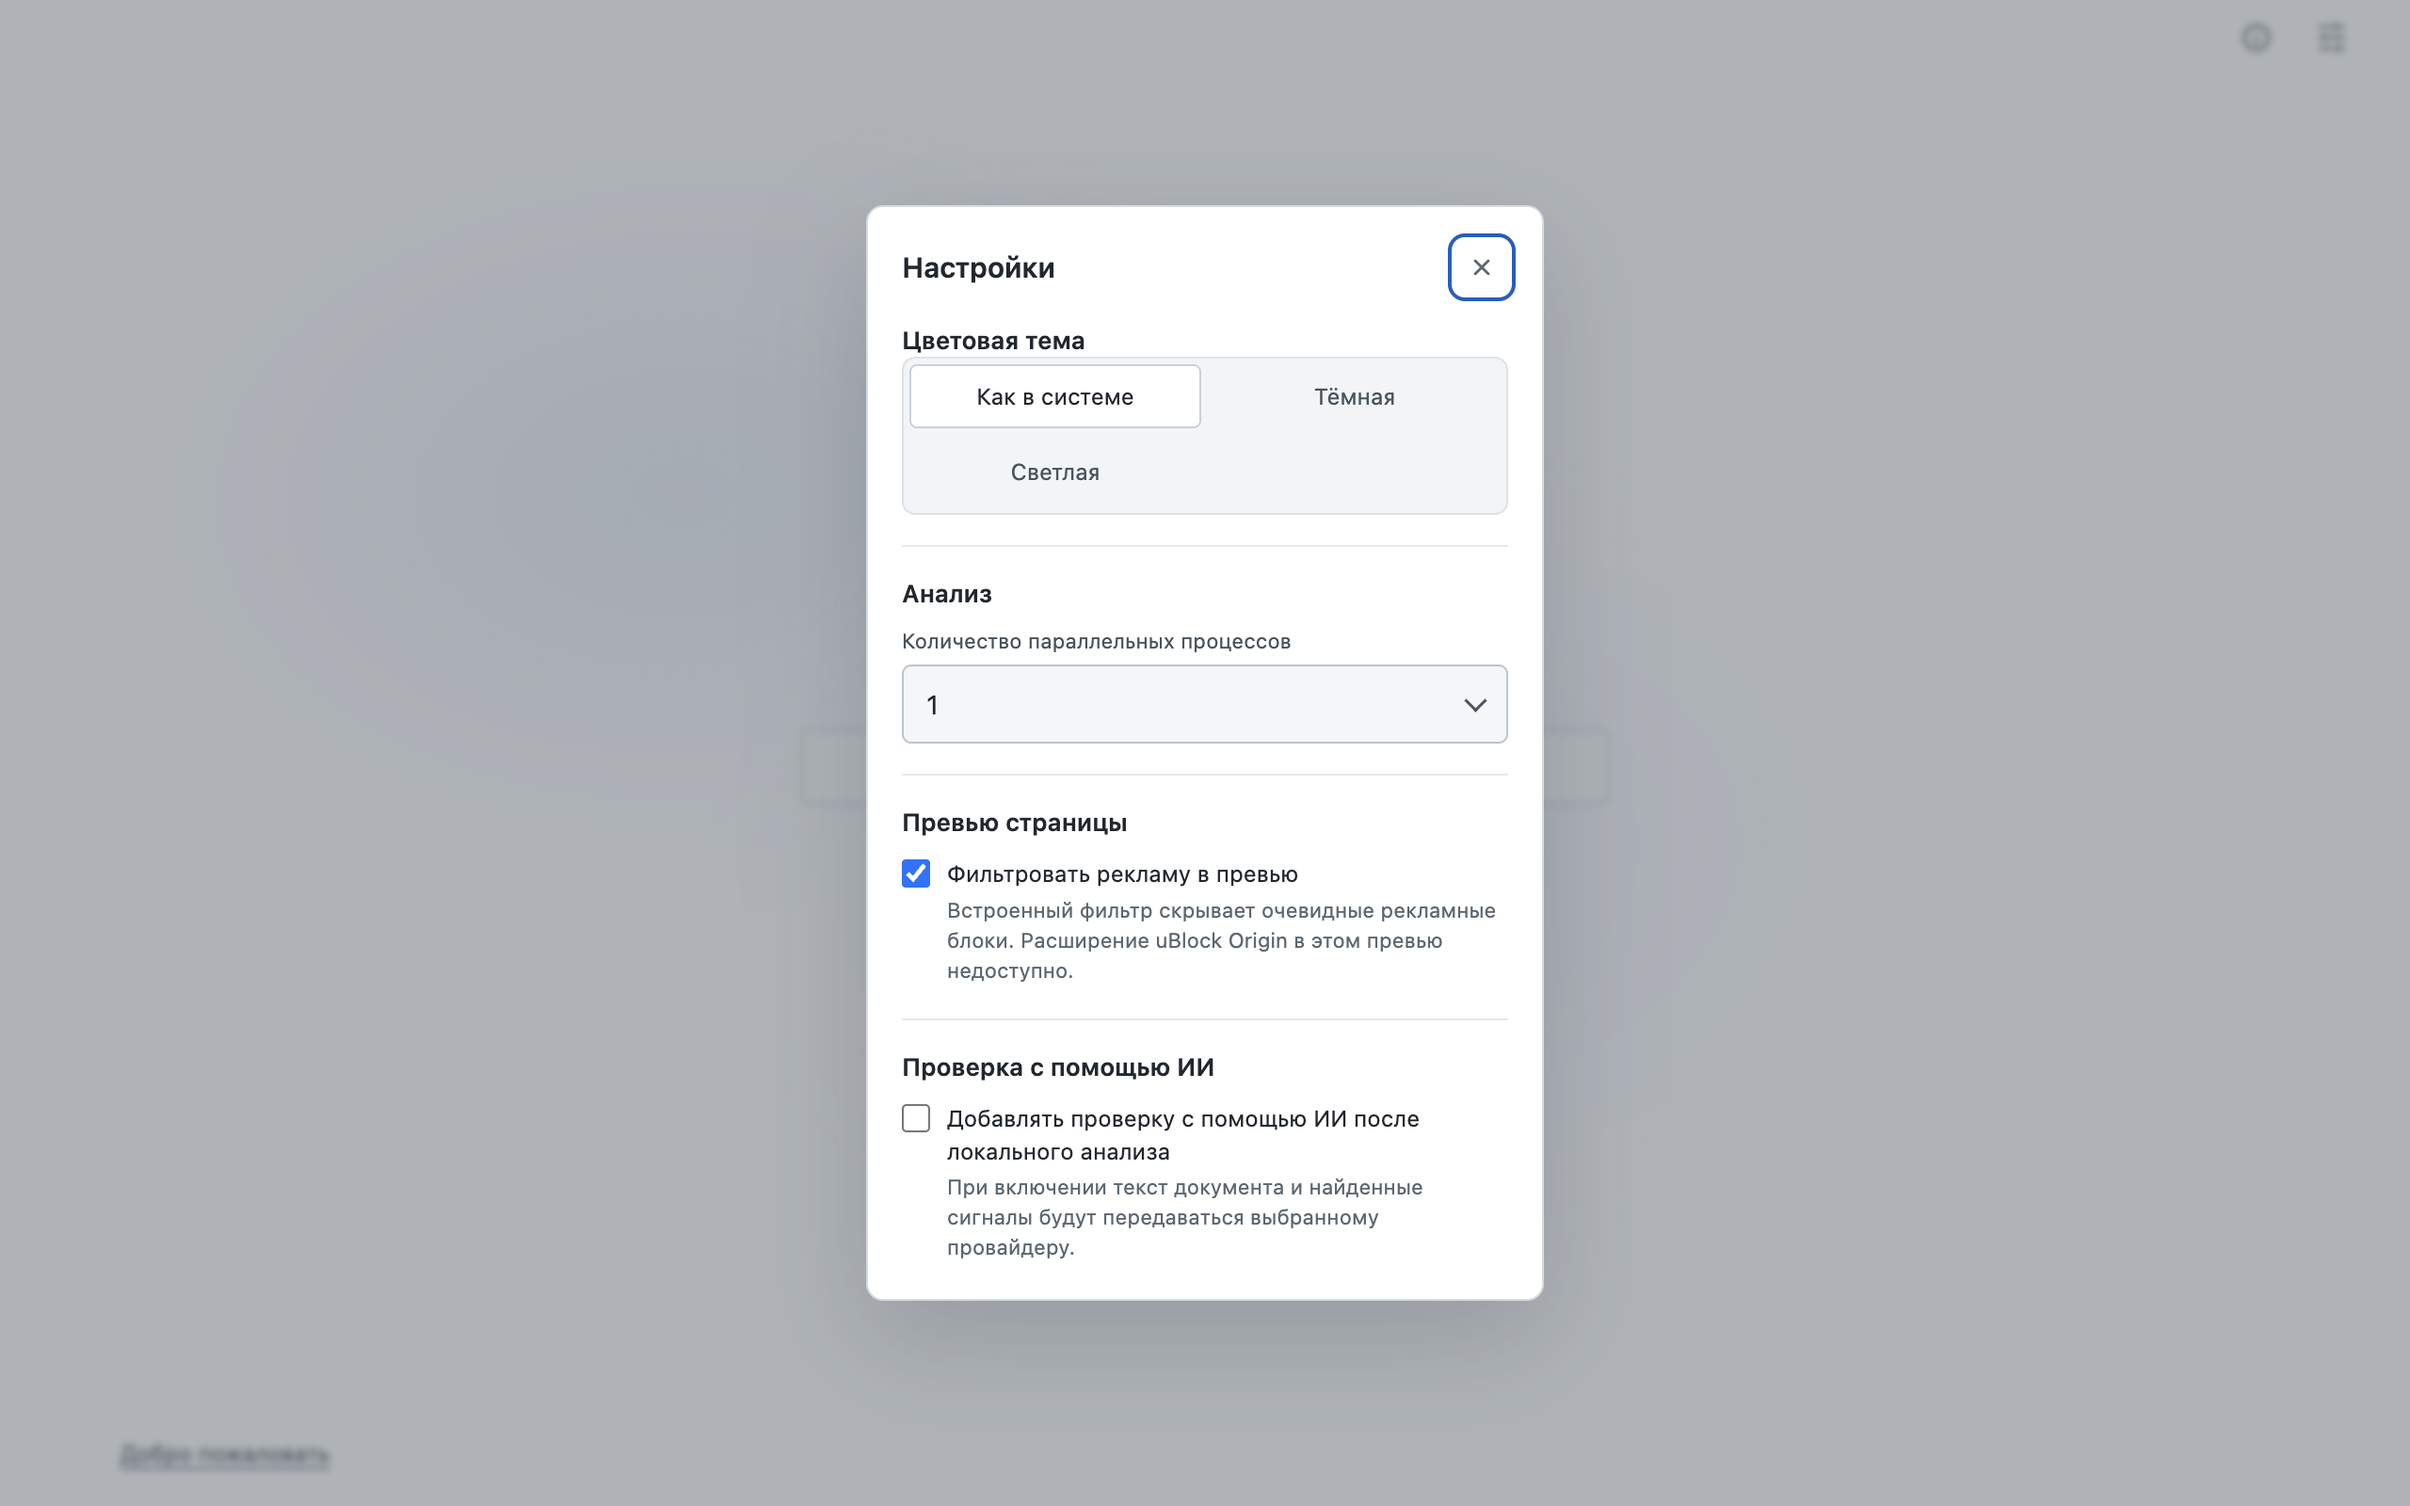
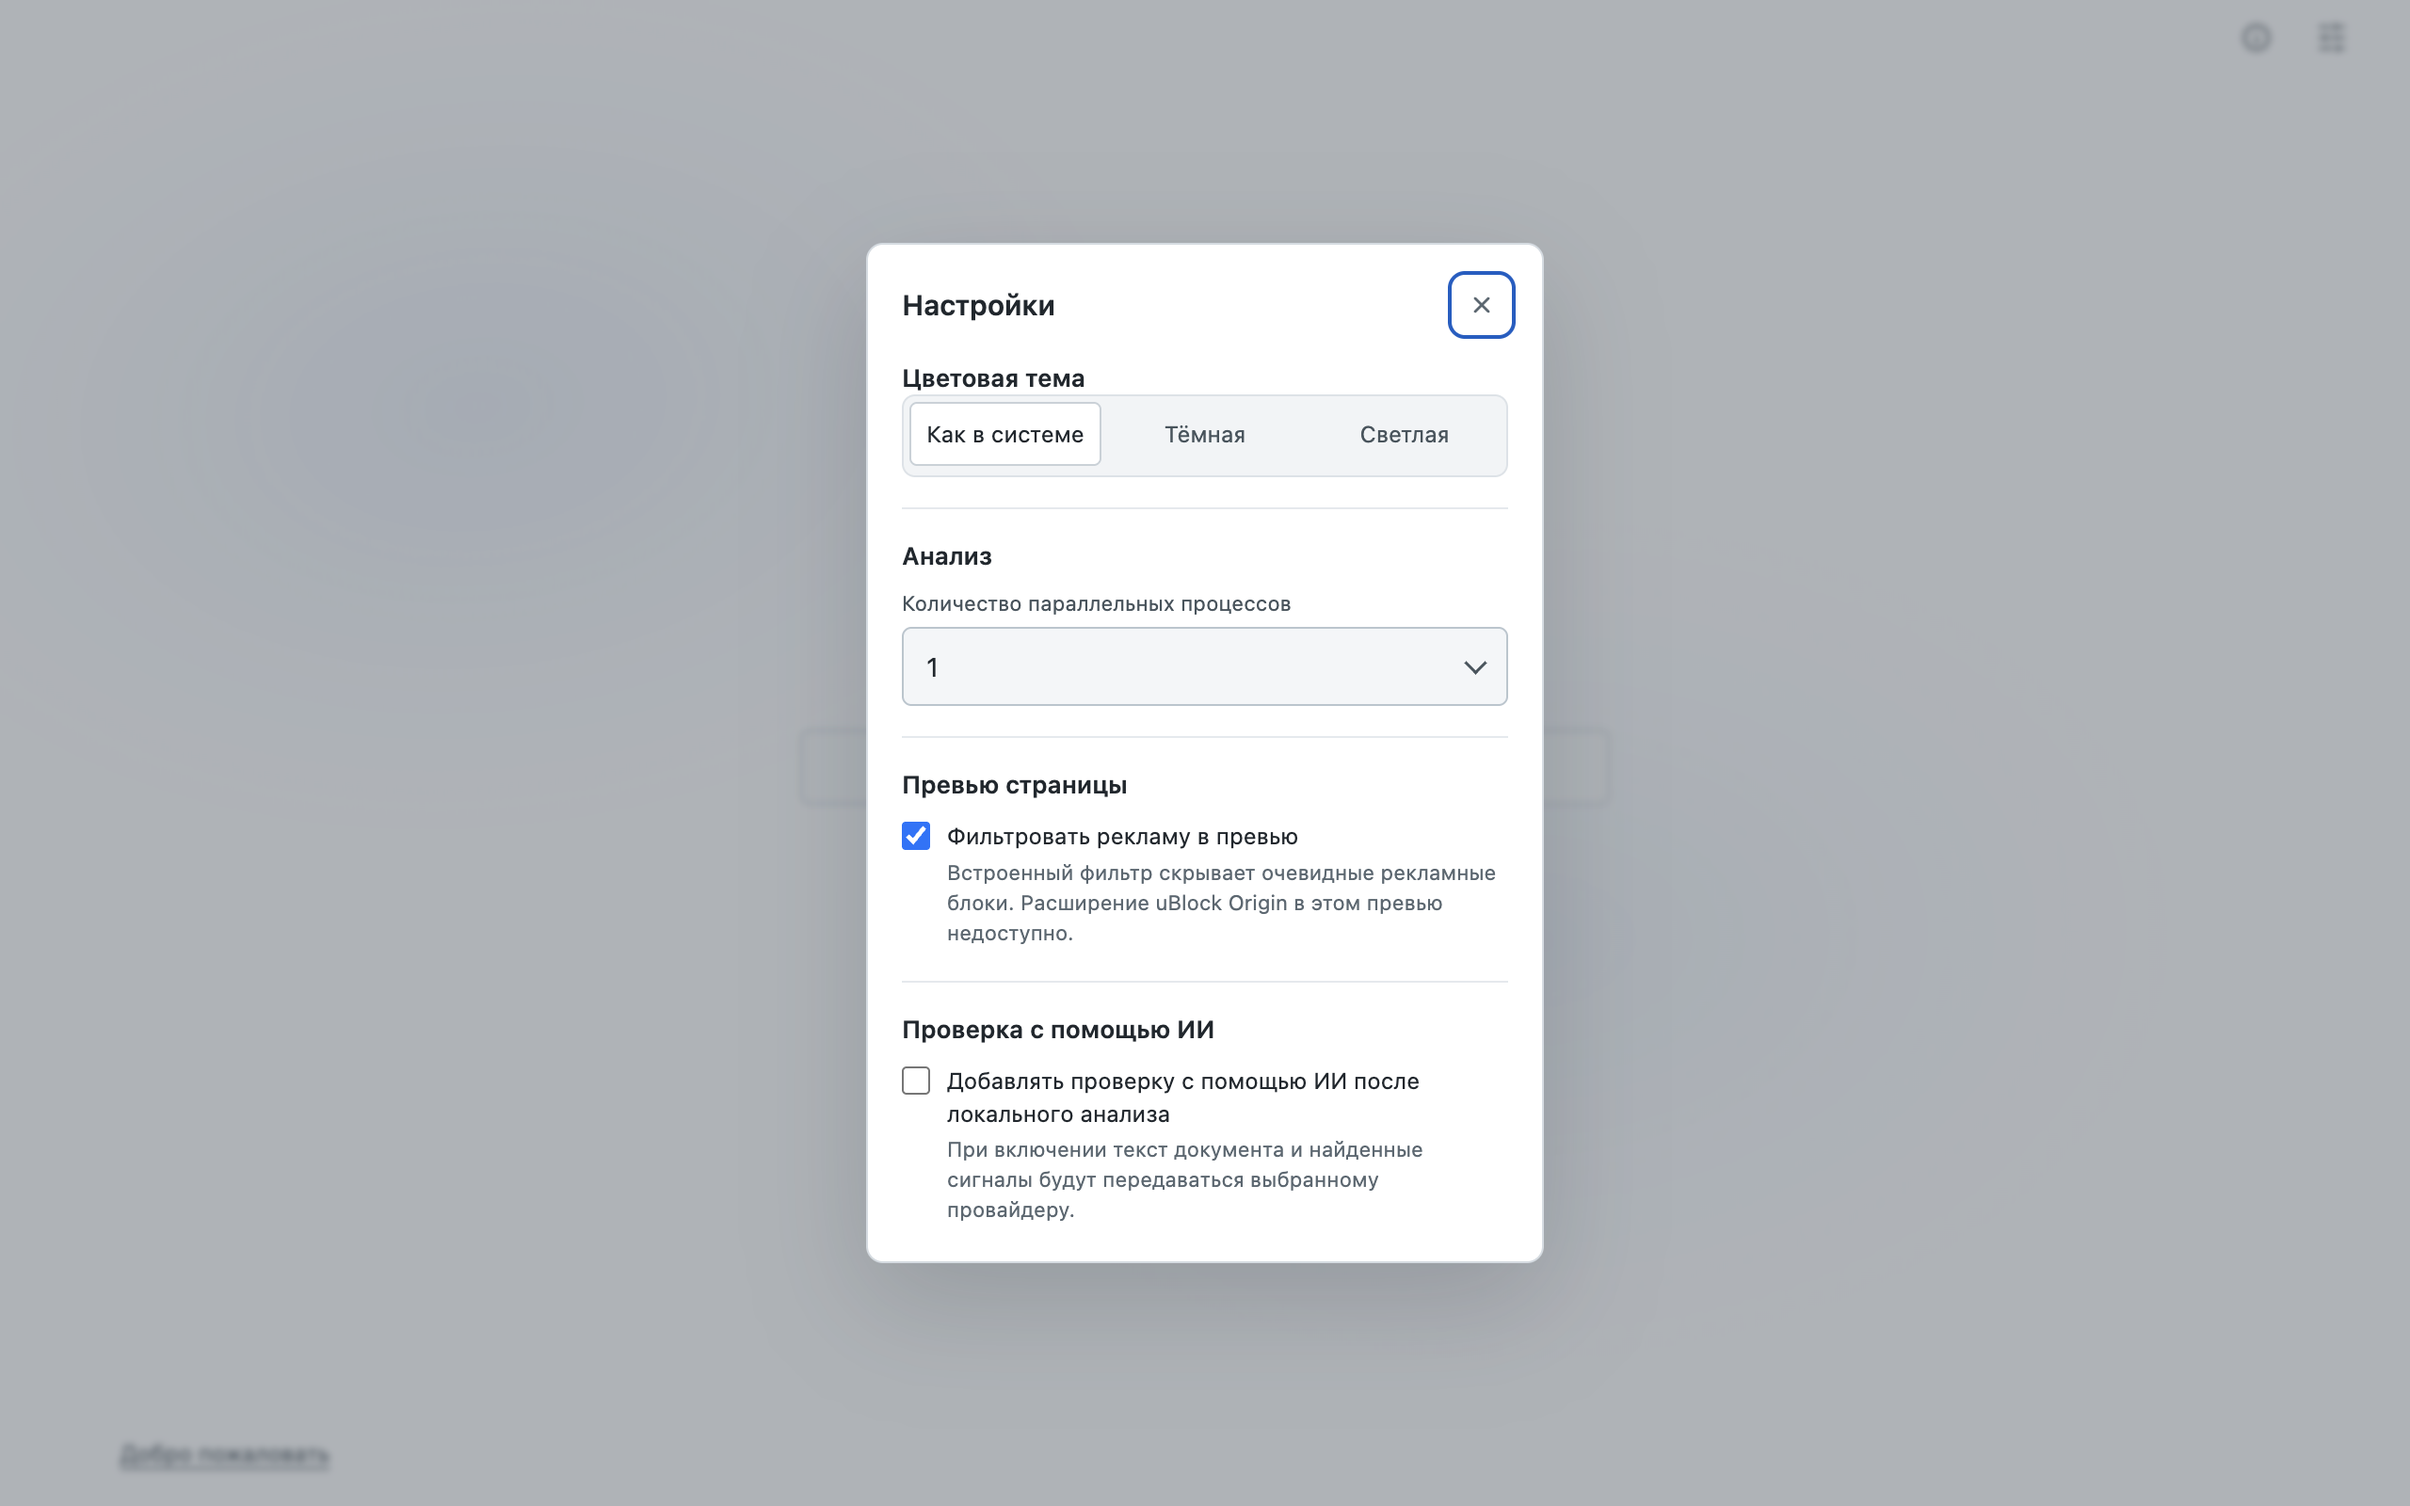
fix: keep theme choices on one row and simplify ETA

diff --git a/tests/ui-state.test.js b/tests/ui-state.test.js
@@ -25,7 +25,7 @@ test('download ETA uses byte rate and resets across layers, reconnects and stall
   const first = estimateRemainingSeconds({ total: 1000, completed: 100, now: 1000, layer: 'a' });
   const next = estimateRemainingSeconds({ total: 1000, completed: 300, now: 3000, layer: 'a', previous: first.next });
   assert.equal(next.seconds, 7);
-  assert.equal(formatRemainingTime(next.seconds), 'Файл: ~1 мин.');
+  assert.equal(formatRemainingTime(next.seconds), '~1 мин.');
   const reset = estimateRemainingSeconds({ total: 1000, completed: 50, now: 4000, layer: 'b', previous: next.next });
   assert.equal(reset.seconds, null);
   const resumed = estimateRemainingSeconds({ total: 1000, completed: 150, now: 5000, layer: 'b', previous: reset.next });
@@ -40,11 +40,11 @@ test('progress and ETA stay current after dismissing and reopening setup dialog'
   const progress = () => ({ value: 0, removeAttribute(name) { if (name === 'value') this.value = null; } });
   const header = { progress: progress(), percent: { textContent: '' }, eta: { textContent: '' } };
   const dialog = { open: true, progress: progress(), eta: { textContent: '' } };
-  renderOllamaProgressFeedback(header, dialog, { percent: 30, eta: 'Файл: ~2 мин.' });
+  renderOllamaProgressFeedback(header, dialog, { percent: 30, eta: '~2 мин.' });
   dialog.open = false;
-  renderOllamaProgressFeedback(header, dialog, { percent: 65, eta: 'Файл: ~1 мин.' });
+  renderOllamaProgressFeedback(header, dialog, { percent: 65, eta: '~1 мин.' });
   assert.equal(header.percent.textContent, '65%');
   dialog.open = true;
   assert.equal(dialog.progress.value, 65);
-  assert.equal(dialog.eta.textContent, 'Файл: ~1 мин.');
+  assert.equal(dialog.eta.textContent, '~1 мин.');
 });

diff --git a/src/ollama-progress.js b/src/ollama-progress.js
@@ -23,7 +23,7 @@ export function estimateRemainingSeconds({ total, completed, now, status, layer,
 export function formatRemainingTime(seconds) {
   if (!Number.isFinite(seconds) || seconds < 0) return 'Время неизвестно';
   const minutes = Math.ceil(seconds / 60);
-  return `Файл: ~${Math.max(1, minutes)} мин.`;
+  return `~${Math.max(1, minutes)} мин.`;
 }
 
 export function renderOllamaProgressFeedback(header, dialog, update) {

diff --git a/src/style.css b/src/style.css
@@ -1542,6 +1542,10 @@ main {
   border-radius: 7px;
 }
 
+.settings-theme .settings-modal-options {
+  grid-template-columns: repeat(3, minmax(0, 1fr));
+}
+
 .theme-choice {
   position: relative;
   min-width: 0;
@@ -1562,6 +1566,10 @@ main {
   border: 1px solid transparent;
   border-radius: 4px;
   font-size: 12px;
+}
+
+.settings-theme .theme-choice span {
+  white-space: nowrap;
 }
 
 .theme-choice input:checked + span {
